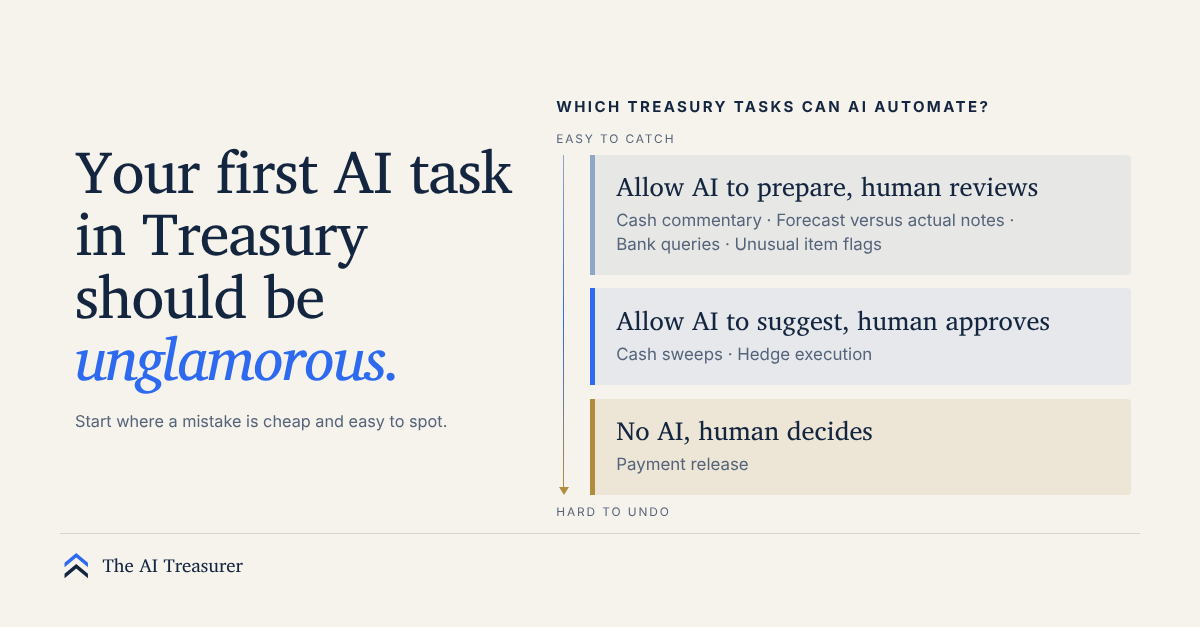
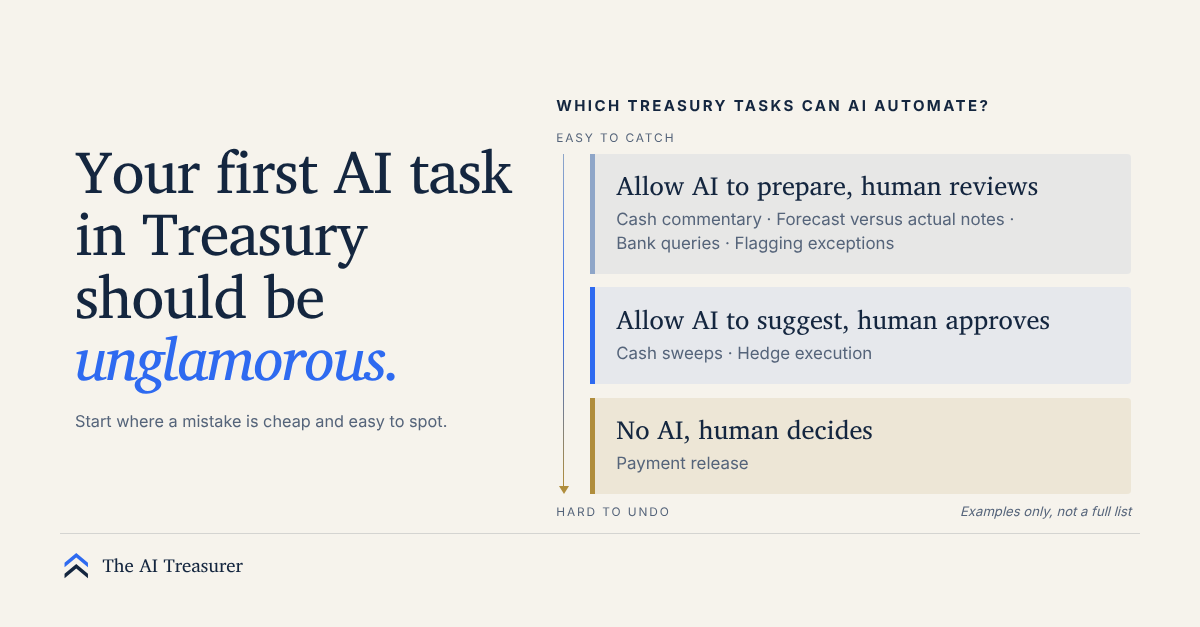
Flagging exceptions; images note examples only
Claude-Session: https://claude.ai/code/session_01JedePw4pbBaJB5BPxPMryK

diff --git a/articles/start-where-mistakes-are-cheap/index.html b/articles/start-where-mistakes-are-cheap/index.html
@@ -148,7 +148,7 @@
     <div class="kicker">At a glance</div>
     <p class="rule">Use AI first on low risk tasks, where a mistake costs little and someone would spot it quickly. Give it more authority only once it has earned it.</p>
     <ul class="tiers">
-      <li class="t1"><span class="l">Allow AI to prepare, human reviews</span><span class="t">Cash commentary &middot; Forecast versus actual notes &middot; Bank queries &middot; Unusual item flags</span></li>
+      <li class="t1"><span class="l">Allow AI to prepare, human reviews</span><span class="t">Cash commentary &middot; Forecast versus actual notes &middot; Bank queries &middot; Flagging exceptions</span></li>
       <li class="t2"><span class="l">Allow AI to suggest, human approves</span><span class="t">Cash sweeps &middot; Hedge execution</span></li>
       <li class="t3"><span class="l">No AI, human decides</span><span class="t">Payment release</span></li>
     </ul>
@@ -174,7 +174,7 @@
     <li>Cash commentary</li>
     <li>Forecast versus actual notes</li>
     <li>Bank queries</li>
-    <li>Unusual item flags</li>
+    <li>Flagging exceptions</li>
   </ul>
   <p><em>Why it&rsquo;s safe:</em> a person reads the output before anything is sent or posted, and the source data is close at hand. If AI gets it wrong, you lose only a few minutes.</p>
 
